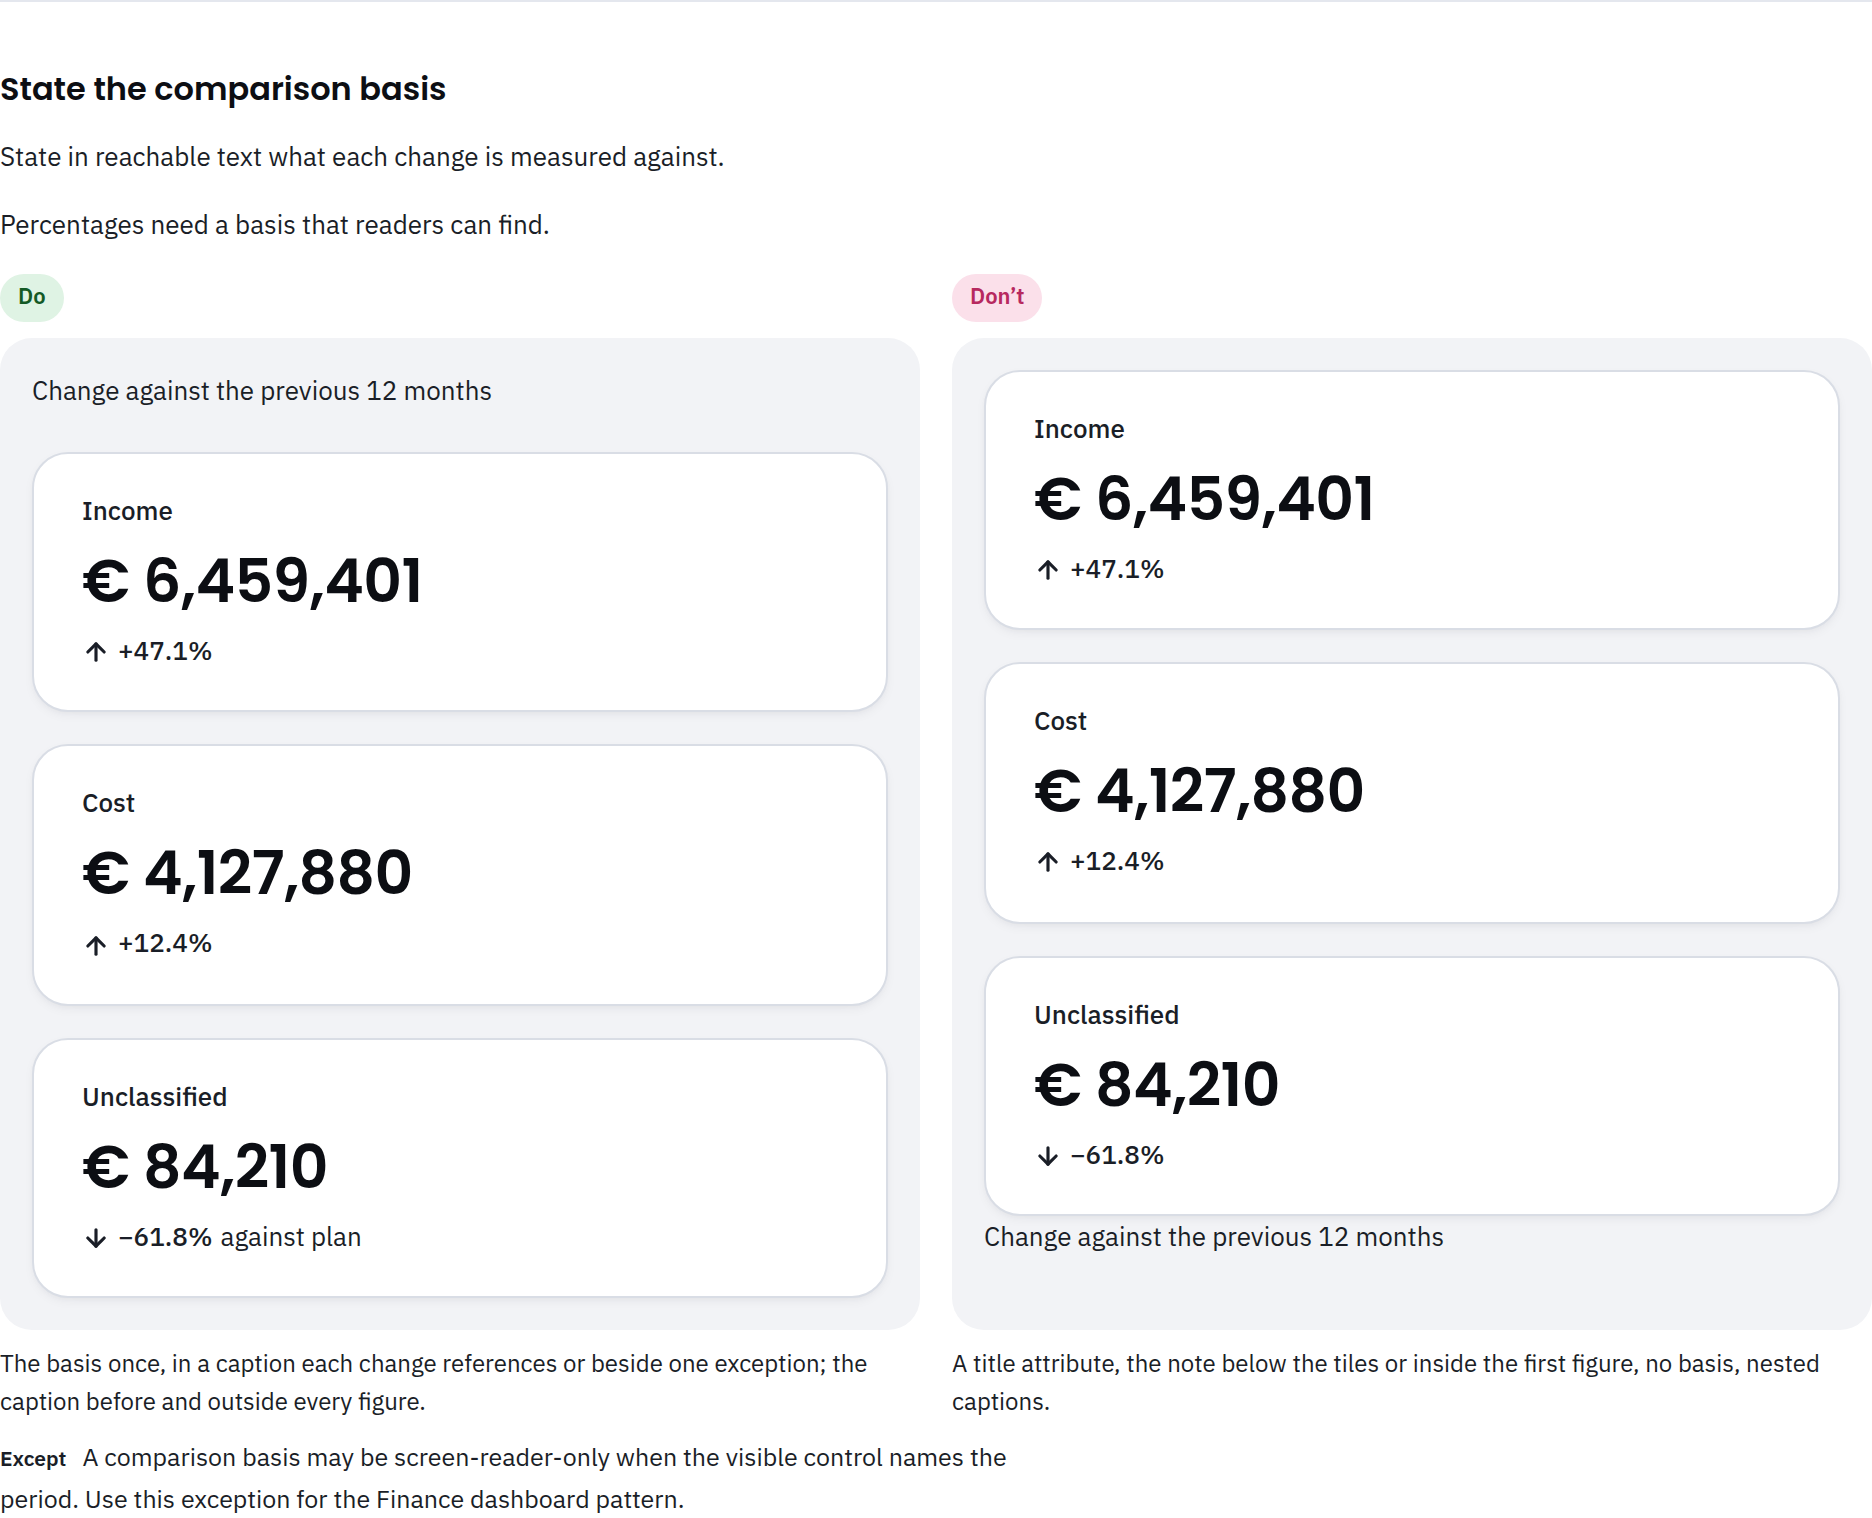
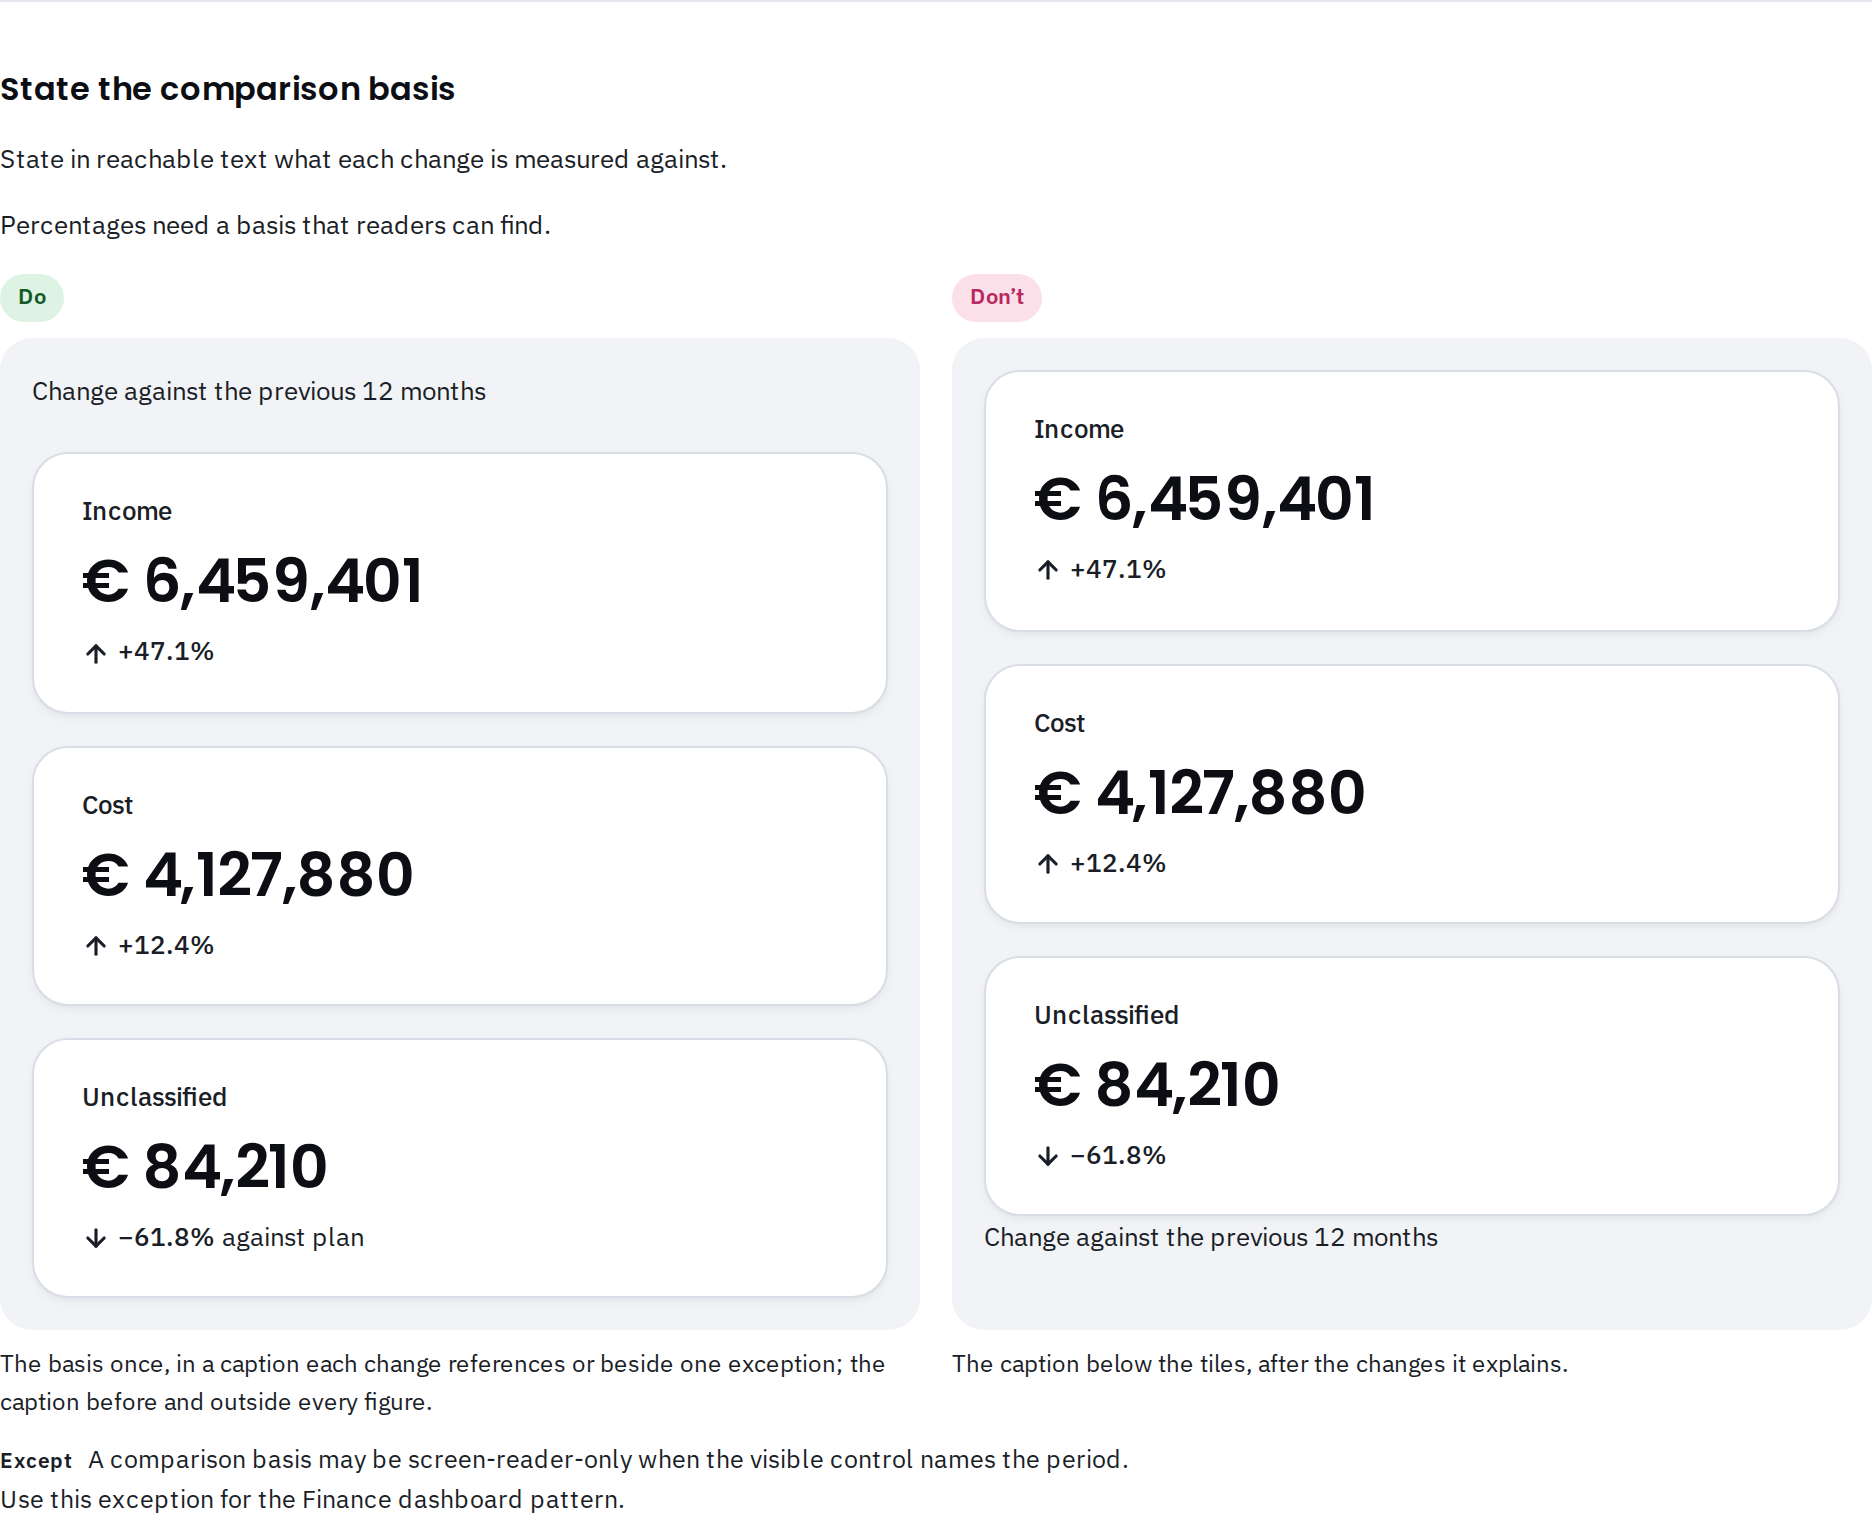
Stat bands: the say-the-basis Don't caption names the one mistake its picture shows (#768)

diff --git a/guidelines/stat-bands.md b/guidelines/stat-bands.md
@@ -38,4 +38,4 @@
 
 **Do:** The basis once, in a caption each change references or beside one exception; the caption before and outside every figure.
 
-**Don't:** A title attribute, the note below the tiles or inside the first figure, no basis, nested captions.
+**Don't:** The caption below the tiles, after the changes it explains.
